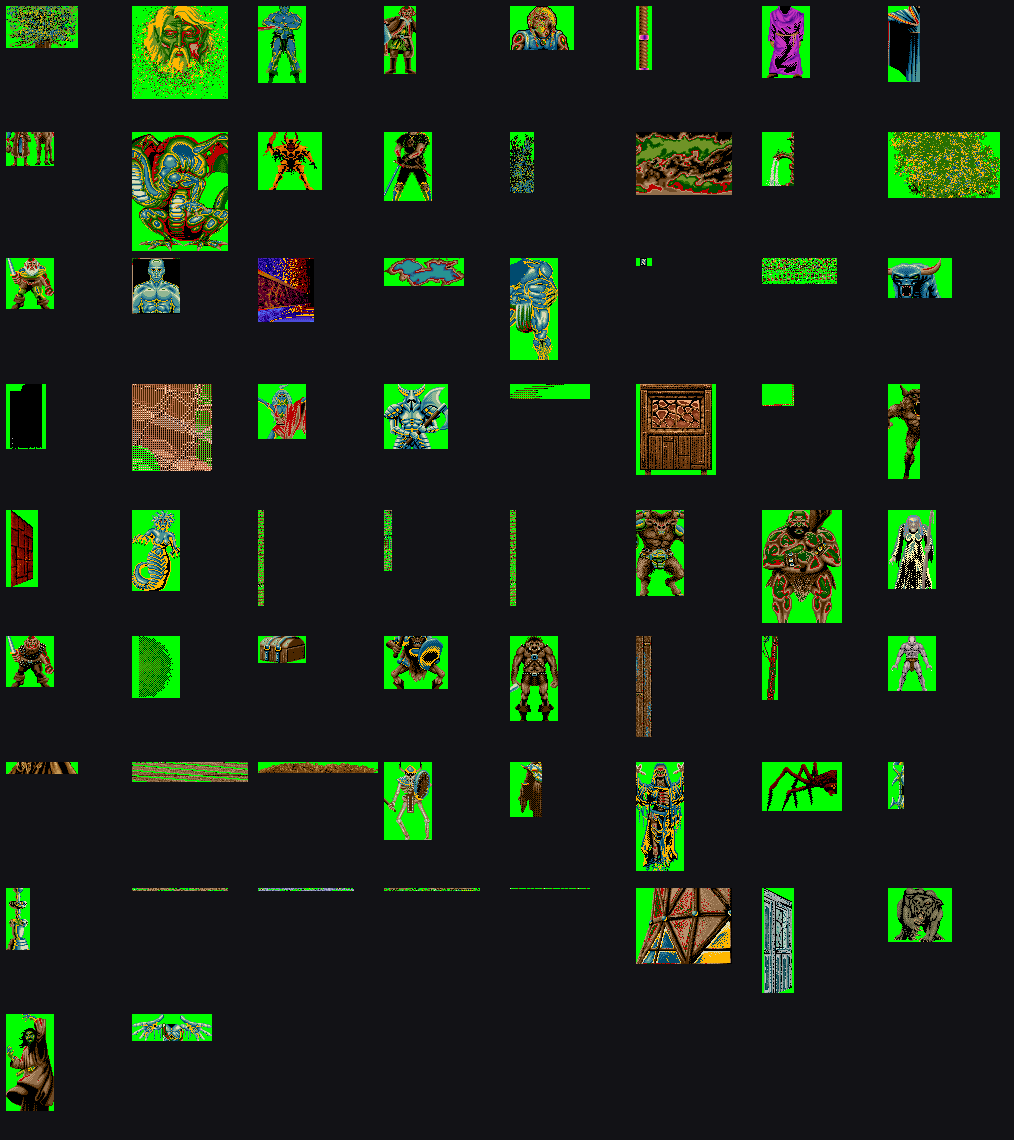
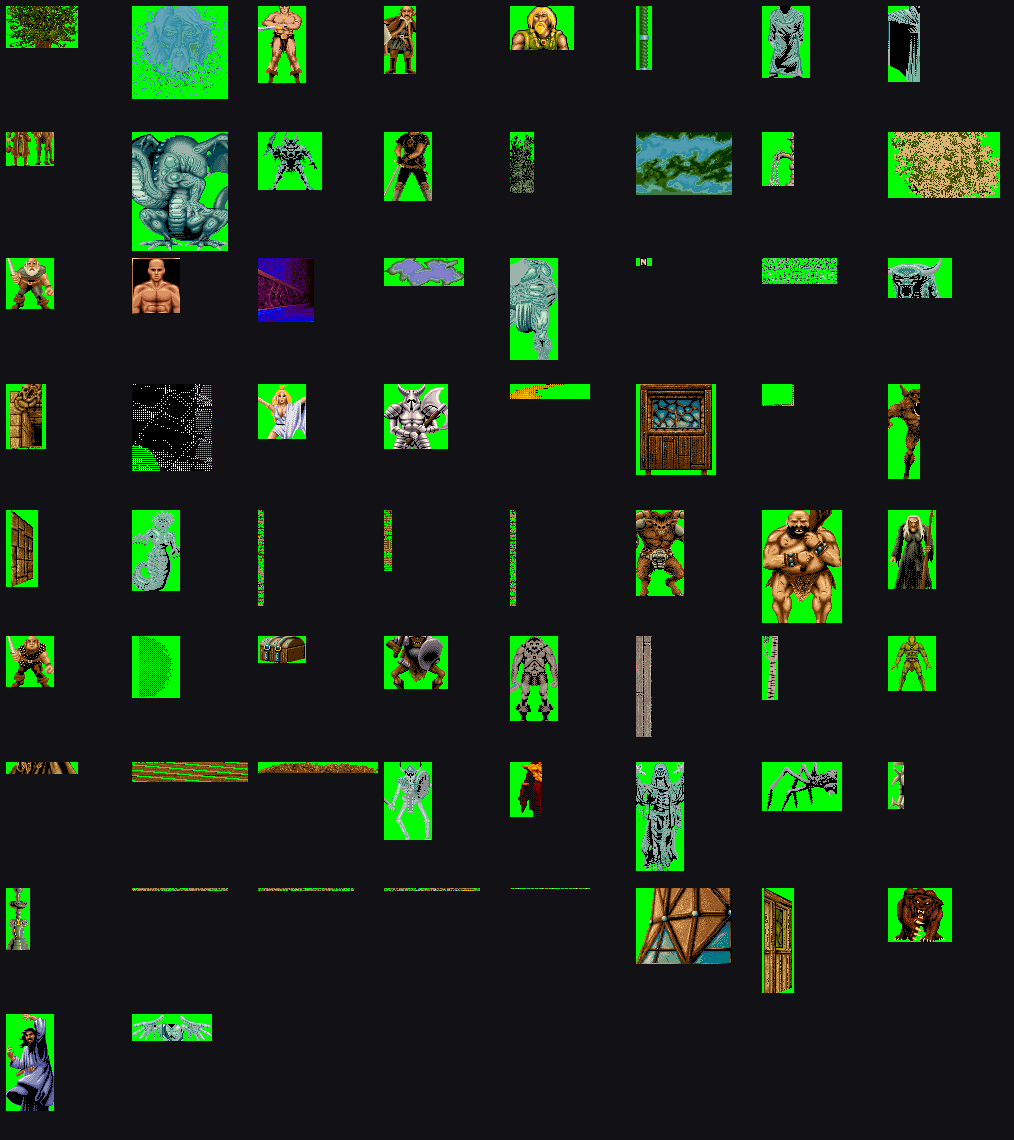
T11r: the palette group is word 3, not word 0
buste.io settles it. All 33 portraits carry word0 = 0x0010, which under the old
model puts every one of them in group 0 -- and group 0 renders them as green
faces. Their word3 values are 0x60, 0x70, 0x80 ... 0xd0, exactly group * 16, and
the portrait at 14802 is legible only at group 6 = 0x60 >> 4, identified by eye
from a 16-cell sweep.

So vga_index = (word3 >> 4) * 16 + nibble. Word 3's low nibble is a per-sprite
index, which is what the live capture's 0xa2..0xa5 on four shrinking sprites meant
all along: group 10, distance steps 2 to 5. Word 0 is flags plus a colour count,
as T11q found.

Applying it turns the extraction legible -- skin tones, silver armour, a wooden
cabinet, stained glass -- where word 0 gave green faces. The
eight-groups-in-one-file puzzle that the old model could not explain dissolves:
that was word 0's flag nibble being read as a group.

CLAUDE.md: two weak signals pointing the same way are still weak. "The values are
in the right range" says nothing about which field holds the value; look for a
field whose values are distributed the way the answer should be. And when a model
cannot be checked directly, render the alternatives and look -- a 16-cell sheet
settled in seconds what two sessions of measurement could not.

Claude-Session: https://claude.ai/code/session_01XKFczojm5HfUVExjFz8FH4

diff --git a/tools/ioscan.py b/tools/ioscan.py
@@ -177,11 +177,17 @@ def find_palette(data, chain_end=0):
 def render(data, off, w, h, pal):
     """A 4bpp index is `group * 16 + nibble`. The DAC is 16 sub-palettes of 16
     (measured in-game: every group starts white, black, then a ramp), and the
-    group is the low nibble of header word 0's high byte -- the top nibble carries
-    flags (0x20 on 50 sprites across every group, 0x10 on 9).
+    group is `word3 >> 4`; word3's low nibble is a per-sprite index (a distance step
+    in the 3D view). Word 0 carries flags and a colour count, not the group.
     Rendering with group 0 for everything is what left the shapes right and the
     colours wrong."""
-    group = (struct.unpack_from("<H", data, off)[0] >> 8) & 0x0f
+    # The group is in word 3, not word 0 (T11r). buste.io's portraits carry
+    # word3 = 0x60, 0x70 ... 0xd0 -- exactly group*16 -- and the portrait at 14802
+    # is legible only at group 6, which is 0x60 >> 4. The same field explains the
+    # perspective sequence seen live: word3 0xa2, 0xa3, 0xa4, 0xa5 is group 10 with
+    # a distance index in the low nibble.
+    w3 = struct.unpack_from("<4H", data, off)[3]
+    group = (w3 >> 4) & 0x0f
     pbase = group * 16
     stride = (w + 1) // 2
     base = off + 8

diff --git a/FORMATS.md b/FORMATS.md
@@ -676,11 +676,25 @@ outside the 16 the DAC has.
 **Verified by:** the flag/group split is a census over every chain record in all 106
 decodable assets; the rejects were rendered and inspected.
 
-**How a 4bpp index becomes a colour (T11m).** The DAC is 16 sub-palettes of 16 (3.9), so
+**How a 4bpp index becomes a colour (T11m, corrected by T11r).** The DAC is 16
+sub-palettes of 16 (3.9), so
 
 ```
-vga_index = group * 16 + nibble        group = header word 0 >> 8
+vga_index = group * 16 + nibble        group = (word 3 >> 4) & 0x0f
 ```
+
+**The group is in word 3, not word 0.** Word 0 was wrongly read as the group for a while
+because its low byte is constant at 16 and its high byte happens to span 0..15; that model
+survived until a portrait disproved it. `buste.io`'s 33 portraits all carry
+`word0 = 0x0010` -- so word 0 would put every one of them in group 0, which renders them
+as green faces -- while their `word3` values are `0x60, 0x70, 0x80 ... 0xd0`, exactly
+`group * 16`, and the portrait at 14802 is legible only at group 6 = `0x60 >> 4`.
+
+Word 3's **low nibble is a per-sprite index**, which is what the live capture's
+`0xa2, 0xa3, 0xa4, 0xa5` on four shrinking sprites meant: group 10, distance steps 2 to 5.
+
+Word 0 is `flags | colour-count` after all (3.10, T11q): low byte 16 for 742 of ~800
+sprites, high nibble `0x00`/`0x10`/`0x20`.
 
 Header word 0 was the last unexplained field, and its high byte is the group: the
 values read live were `0x0012, 0x0017, 0x0310, 0x070f, 0x0b00, 0x0c14, 0x0e10` --
@@ -693,10 +707,11 @@ screen exactly, colours included (`captures/t11m2-vram.png` against
 `captures/t11m2-state.png`). That validates 3.9 end to end -- the file's 768 bytes really
 are the DAC the game is running.
 
-**Status:** the mapping is established from the DAC's structure and word 0's shape,
-and it is *not yet* confirmed pixel-by-pixel against the framebuffer -- the one
-attempt matched 32/40 opaque pixels of a 16x4 sprite, which is not enough to call it.
-See T11m.
+**Status:** confirmed by rendering. Taking the group from word 3 turns the whole
+extraction legible -- skin tones, silver armour, a wooden cabinet, stained glass -- where
+word 0 gave green faces. A pixel-exact framebuffer comparison is still outstanding
+(T11m), but the model now has a falsification test it passed and a competing one it
+failed.
 
 
 ## 4. Video

diff --git a/ROADMAP.md b/ROADMAP.md
@@ -379,7 +379,7 @@ Compose rewrite has to do.
       811 -> 786 records, 0 invalid remaining, rejects confirmed as static
       (`captures/t11q-dropped.png`). FORMATS.md 3.10.*
 
-- [ ] **T11r · Prove word 0's high byte is the palette group**
+- [x] **T11r · Prove word 0's high byte is the palette group**
       The claim behind every colour in the extraction, and it is inferred, not measured:
       the low byte is constant at 16 (a colour count) and the high byte spans exactly 0..15
       (the DAC's group range), which is suggestive rather than conclusive. Rendering with
@@ -401,6 +401,15 @@ Compose rewrite has to do.
       palette changes nothing, since it is byte-identical to `bank#0`. So the group is
       probably **not** word 0's high byte, or portraits use a palette not yet found. This is
       now a task to disprove a model rather than to confirm one.*
+      *Answered, and the model was wrong: **the group is `word3 >> 4`, not word 0's high
+      byte.** `buste.io`'s 33 portraits all carry `word0 = 0x0010`, which would put every one
+      in group 0 and renders them as green faces, while their `word3` runs 0x60, 0x70 ...
+      0xd0 -- exactly `group * 16`. The portrait at 14802 is legible only at group 6 = 0x60>>4,
+      identified by eye from `captures/buste-all-groups.png`. Word 3's low nibble is a
+      per-sprite index, which explains the live capture's 0xa2..0xa5 on four shrinking
+      sprites: group 10, distance steps 2-5. Applying it makes the whole extraction legible.
+      The eight-groups-in-one-file puzzle dissolves too -- that was word 0's flag nibble
+      being read as a group. FORMATS.md 3.10.*
 
 - [~] **T11p · The viewport renderer is not the blitter we know**
       `seg_0e97:038b` fires 445 times during the launcher/title/intro and **zero times in

diff --git a/CLAUDE.md b/CLAUDE.md
@@ -471,6 +471,22 @@ Two independent signals agreeing is the check: the marker *and* the white/black 
 signature. When a structural discovery replaces a heuristic, run both over the whole
 corpus and count the disagreements before deleting the heuristic.
 
+### Two weak signals pointing the same way are still weak
+
+The palette group was read out of word 0 because its low byte is constant at 16 and its
+high byte spans exactly 0..15 -- the range a group index would have. Both signals were
+real and both were consistent with the model, and the model was wrong: the group is in
+word 3. Word 0's high nibble is a flag, and 0..15 is simply what four bits do.
+
+"The values are in the right range" is not evidence about *which field* holds a value.
+Look for a field whose values are *unequally* distributed the way the answer should be --
+`buste.io` settled it in one look, because 33 portraits carrying word0 = 0x0010 cannot all
+be in the same palette group, while their word3 spread across 0x60..0xd0.
+
+And when a model cannot be checked directly, render the alternatives and look. The user
+identified the right group by eye from a 16-cell sheet in seconds, after two sessions of
+failing to prove it from the machine.
+
 ## Unsupervised sessions
 
 `/goal` runs until the objective is met. `ROADMAP.md` holds the tasks and their
